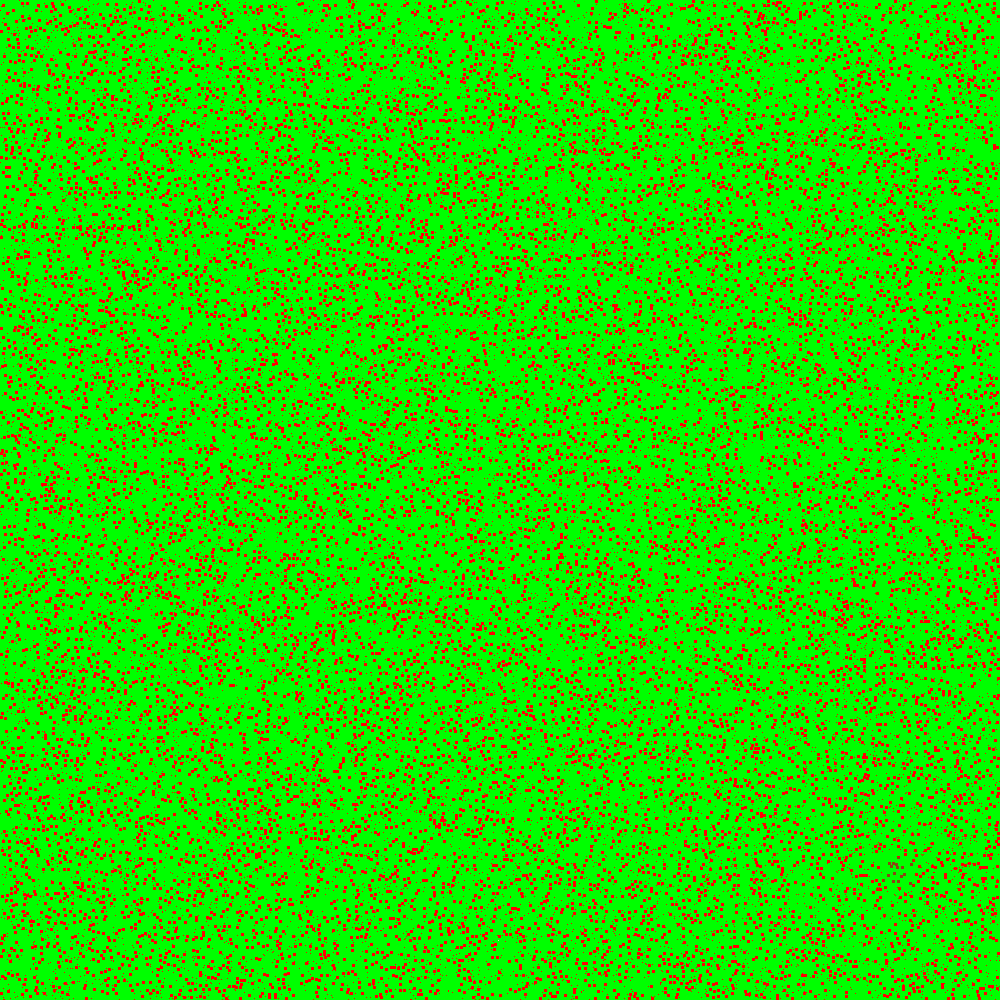
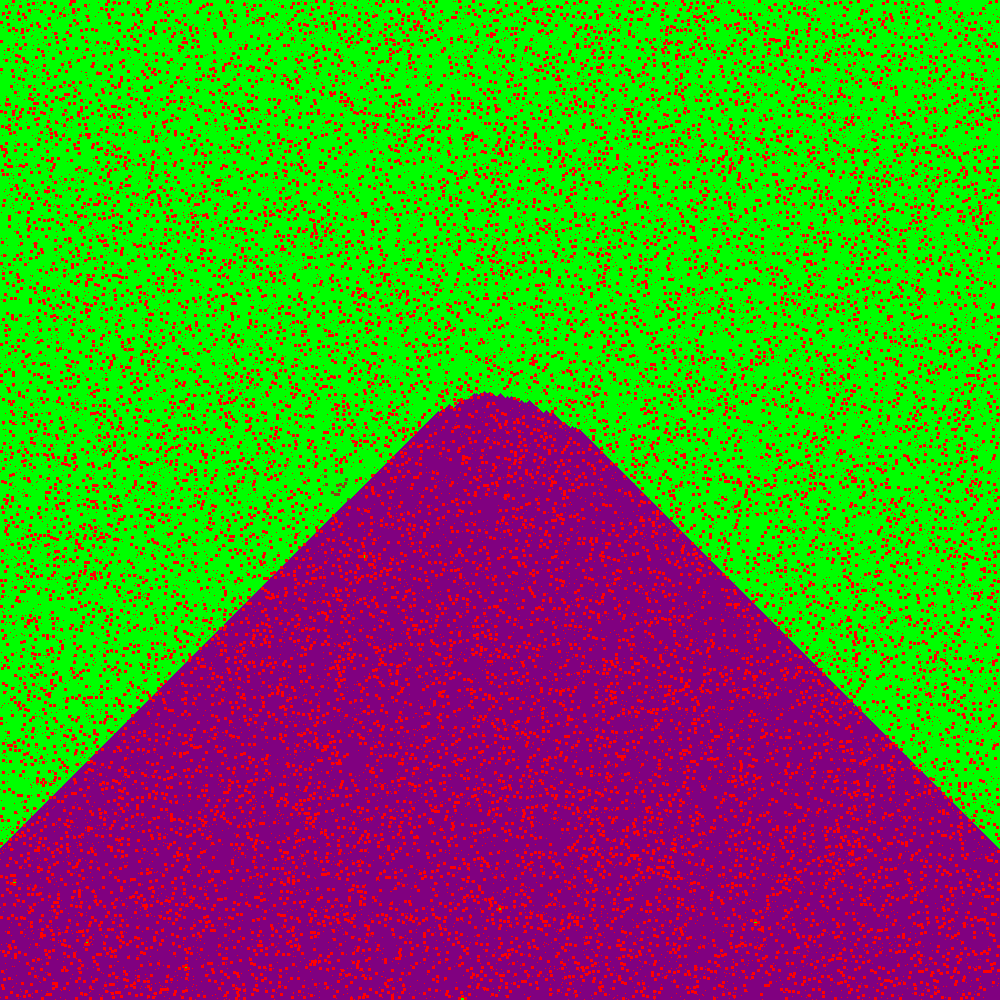
Began Algorithm Testing

diff --git a/worldGenerationFunctions.py b/worldGenerationFunctions.py
@@ -2,6 +2,7 @@ from ursina import *
 import random
 from worldSettings import *
 from textures import *
+from algorithms import *
 from ursina.prefabs.first_person_controller import FirstPersonController
 from PIL import Image, ImageDraw
 
@@ -45,7 +46,7 @@ class GameScreen:
         speed=self.player_speed # Player movement speed
         )
 
-        self.current_position = (self.player_spawn_x, self.player_spawn_z)
+        self.current_position = (int(self.player_spawn_x), int(self.player_spawn_z))
         
         self.MiniMap = Entity(
             parent=camera.ui,
@@ -58,7 +59,8 @@ class GameScreen:
         # bottom left, moving towards the right and once it reaches the end 
         # of 1 row in tile_map, it will move up to the next row in tile_map
         self.image = Image.new('RGB', (world_size, world_size), color=(0, 0, 0, 0))
-        draw_minimap(self.image, self.tile_map, self.cluster_locations, self.single_locations)
+        self.colorMap = []
+        draw_minimap(self.image, self.tile_map, self.colorMap)
         self.MiniMap.texture = "minimap.png"
         
 
@@ -103,29 +105,39 @@ mini_block = Entity(
 )
 
 # Draw the texture for the MiniMap
-def draw_minimap(image, tile_map, cluster_locations, single_locations):
+def draw_minimap(image, tile_map, colorMap):
+    
+    colorChar = ''
     draw = ImageDraw.Draw(image)
     for x in range(world_size):
+        row = []
         for z in range(world_size):
             if tile_map[x][z] == "O":
                 color = (255, 0, 0, 255)  # Red
+                colorChar = 'R'
             elif tile_map[x][z] == "H":
                 color = (139, 69, 19, 255)  # Brown
+                colorChar = 'B'
             elif tile_map[x][z] == "P":
                 color = (255, 192, 203, 255)  # Pink
+                colorChar = 'P'
             else:
                 color = (0, 255, 0, 255)  # Green
+                colorChar = 'G'
             #draw.point((world_size - x - 1, world_size - z - 1), fill=color)
             draw.point((world_size - x - 1, z), fill=color)
+            row.append(colorChar)
+        colorMap.append(row)
     #image = image.transpose(Image.ROTATE_90)
+    
     image.save("minimap.png")
     print("MiniMap Created")
 
 # Generate Home Structure
 def homeGeneration():
     home_tile_positions = []
-    x = random.randint(0, world_size - home_size - 10)
-    z = random.randint(home_min_z, home_max_z)
+    z = random.randint(home_min_z, world_size)
+    x = random.randint(home_min_z, home_max_z)
     for dx in range(home_size):
         for dz in range(home_size):
             home_tile_positions.append((x + dx, z + dz))

diff --git a/algorithms.py b/algorithms.py
@@ -1,9 +1,12 @@
 from worldSettings import *
 from collections import deque
+from PIL import Image, ImageDraw
+import time
 
 # This file will contain the algorithms used for finding the shortest path between the player and the home
 
-def BFS(tile_map):
+def BFS(image, draw, tile_map):
+    
     # Breadth First Search Algorithm
     # This algorithm will find the shortest path between the player and the home
     # The algorithm will return a list of coordinates (x, z) that represent the path from the player to the home
@@ -42,7 +45,7 @@ def BFS(tile_map):
 
     while queue:
         current = queue.popleft()
-        if current == goal:
+        if current in goal:
             # Reconstruct the path
             path = []
             while current != start:
@@ -53,18 +56,25 @@ def BFS(tile_map):
             # Reverse the path to get the correct order from start to goal
             path.reverse()
             return path  # List of tuples from start to goal
-
+        
+        last_save_time = time.time()
         for d in directions:
             neighbor = (current[0] + d[0], current[1] + d[1])
             if (0 <= neighbor[0] < rows) and (0 <= neighbor[1] < cols):
                 if tile_map[neighbor[0]][neighbor[1]] != 'O' and neighbor not in visited:  # 'O' represents obstacles
                     queue.append(neighbor)
                     visited.add(neighbor)
+                    draw.point((world_size - neighbor[0] - 1, neighbor[1]), fill=(128, 0, 128, 255))
+                    
+                    current_time = time.time()
+                    if current_time - last_save_time >= 5:
+                        image.save("minimap.png")
+                        last_save_time = current_time
                     parent[neighbor] = current
  
     return None  # No path found
 
-def DFS(tile_map):
+def DFS(image, draw, tile_map):
     # Depth First Search Algorithm
     # This algorithm will find the shortest path between the player and the home
     # The algorithm will return a list of coordinates (x, z) that represent the path from the player to the home
@@ -121,6 +131,8 @@ def DFS(tile_map):
                 if tile_map[neighbor[0]][neighbor[1]] != 'O' and neighbor not in visited:  # 'O' represents obstacles
                     stack.append(neighbor)
                     visited.add(neighbor)
+                    #fill will be purple
+                    draw.point((world_size - neighbor[0] - 1, neighbor[1]), fill=(128, 0, 128, 255))
                     parent[neighbor] = current
                     
     return None  # No path found

diff --git a/main.py b/main.py
@@ -24,11 +24,13 @@ draw = ImageDraw.Draw(game_screen.image)
 
 rectangle_entity = None
 map = None
+mPressed = False
 
 def input(key):
     global rectangle_entity
     global map
     global text_entity  # Add a variable to store the text entity
+    global mPressed
     #global DFSTest
     #global BFSTest
     # Check if the player presses the 'q' key
@@ -36,6 +38,7 @@ def input(key):
         # Quit the game
         application.quit()
     elif key == 'm':
+        mPressed = True
         print("I pressed m")
         if not rectangle_entity:
             rectangle_entity = Button(
@@ -54,19 +57,27 @@ def input(key):
             map.texture = "minimap.png"
             # Add text next to the rectangle
             text_entity = Text(
-                text="B for BFS & D for DFS",
-                position=(0.2, 0),
+                text="Please Choose an Algorithm: \n Press 'B' for BFS \n Press 'D' for DFS",
+                position=(0.1, 0),
                 parent=camera.ui,
                 scale=2,
                 color=color.white
             )
             print("Rectangle Entity Created")
+    elif key == 'b' and mPressed:
+        print("BFS Algorithm")
+        BFS(game_screen.image, draw, game_screen.tile_map)
+    elif key == 'd' and mPressed:
+        print("DFS Algorithm")
+        DFS(game_screen.image, draw, game_screen.tile_map)
     elif key == 'r':
         if rectangle_entity:
             destroy(rectangle_entity)
             destroy(map)
             destroy(text_entity)
             rectangle_entity = None
+            mPressed = False
+    
     
 def update_visible_blocks():
     # Update the visible blocks based on the player's position
@@ -200,7 +211,6 @@ def update():
     player_z = int(game_screen.player.z)
     mirrored_x = world_size - player_x - 1
     new_position = (mirrored_x, player_z)
-
 
     #new_position = (int(game_screen.player.x), int(game_screen.player.z))
     if(new_position != game_screen.current_position):
